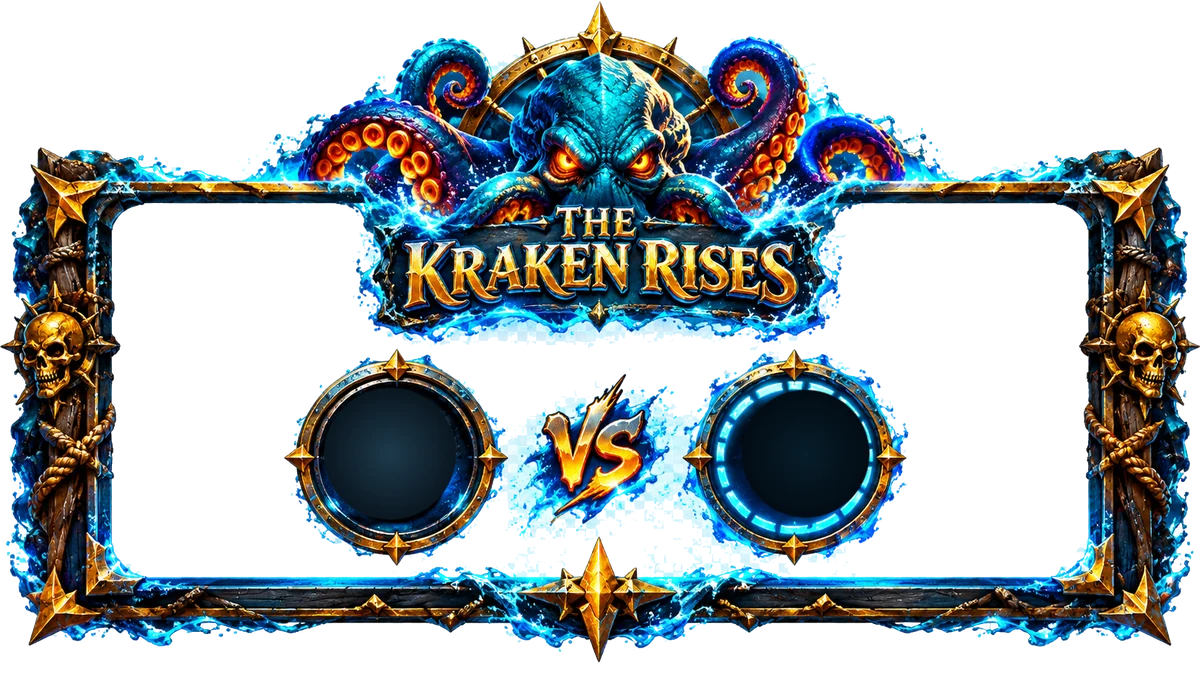
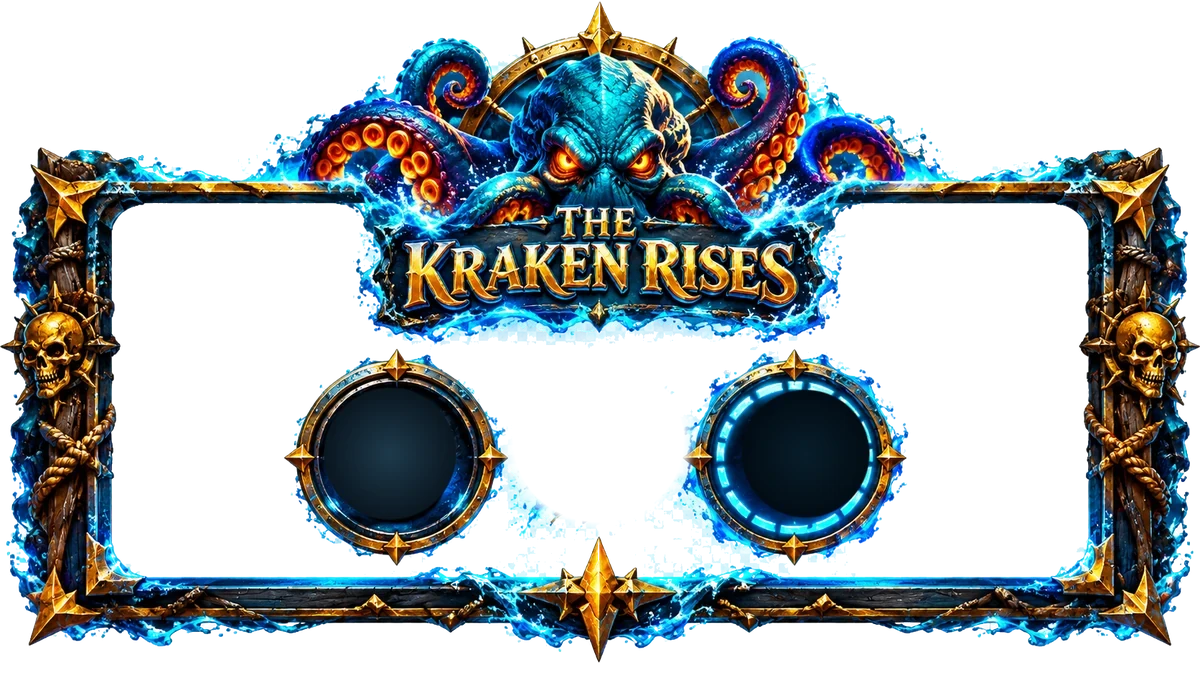
Kraken panel: '=' between the numbers instead of 'VS'
Baked VS removed from the panel art; a live '=' sits there (cyan glow
before the reveal, gold on a match, red '≠' on a miss).

Claude-Session: https://claude.ai/code/session_01UoQz6VoqintZHwHaWa4Dbx

Changed region(s): [[0.4008, 0.56, 0.5858, 0.7778]]

diff --git a/apps/scratch/src/components/app.css b/apps/scratch/src/components/app.css
@@ -1857,3 +1857,32 @@ button:disabled {
 	width: 88%;
 	flex: none;
 }
+
+/* "=" between the Kraken plaques. */
+.kraken-equals {
+	position: absolute;
+	transform: translate(-50%, -54%);
+	font-family: 'Cinzel', Georgia, serif;
+	font-weight: 900;
+	font-size: 1.5em;
+	line-height: 1;
+	color: #fff1b8;
+	-webkit-text-fill-color: #fff1b8;
+	text-shadow: 0 3px 0 #3a1f08;
+	filter: drop-shadow(0 0 6px #22d3ee) drop-shadow(0 0 16px #0891b2);
+	animation: kraken-q-pulse 1.4s ease-in-out infinite;
+}
+
+.kraken-equals.hit {
+	color: #ffd75e;
+	-webkit-text-fill-color: #ffd75e;
+	filter: drop-shadow(0 0 8px #f2c744) drop-shadow(0 0 20px #f59e0b);
+	animation: none;
+}
+
+.kraken-equals.miss {
+	color: #ff8a7a;
+	-webkit-text-fill-color: #ff8a7a;
+	filter: drop-shadow(0 0 8px #dc2626);
+	animation: none;
+}

diff --git a/apps/scratch/src/components/Game.svelte b/apps/scratch/src/components/Game.svelte
@@ -870,6 +870,16 @@
 			>
 				<img class="kraken-panel-img" src={krakenPanelUrl} alt="The Kraken Rises" draggable="false" />
 				<div class="kraken-plaque-num" style={plaqueAt(KRAKEN_PANEL.player)}>{k.playerNumber}</div>
+				<!-- "=" between the plaques (the art's baked "VS" was removed);
+				     turns into a red "≠" on a miss. -->
+				<div
+					class="kraken-equals"
+					class:miss={krakenRevealed && !k.hit}
+					class:hit={krakenRevealed && k.hit}
+					style={plaqueAt({ x: 833, y: 613 })}
+				>
+					{krakenRevealed && !k.hit ? '≠' : '='}
+				</div>
 				<div
 					class="kraken-plaque-num"
 					class:hidden={!krakenRevealed}
